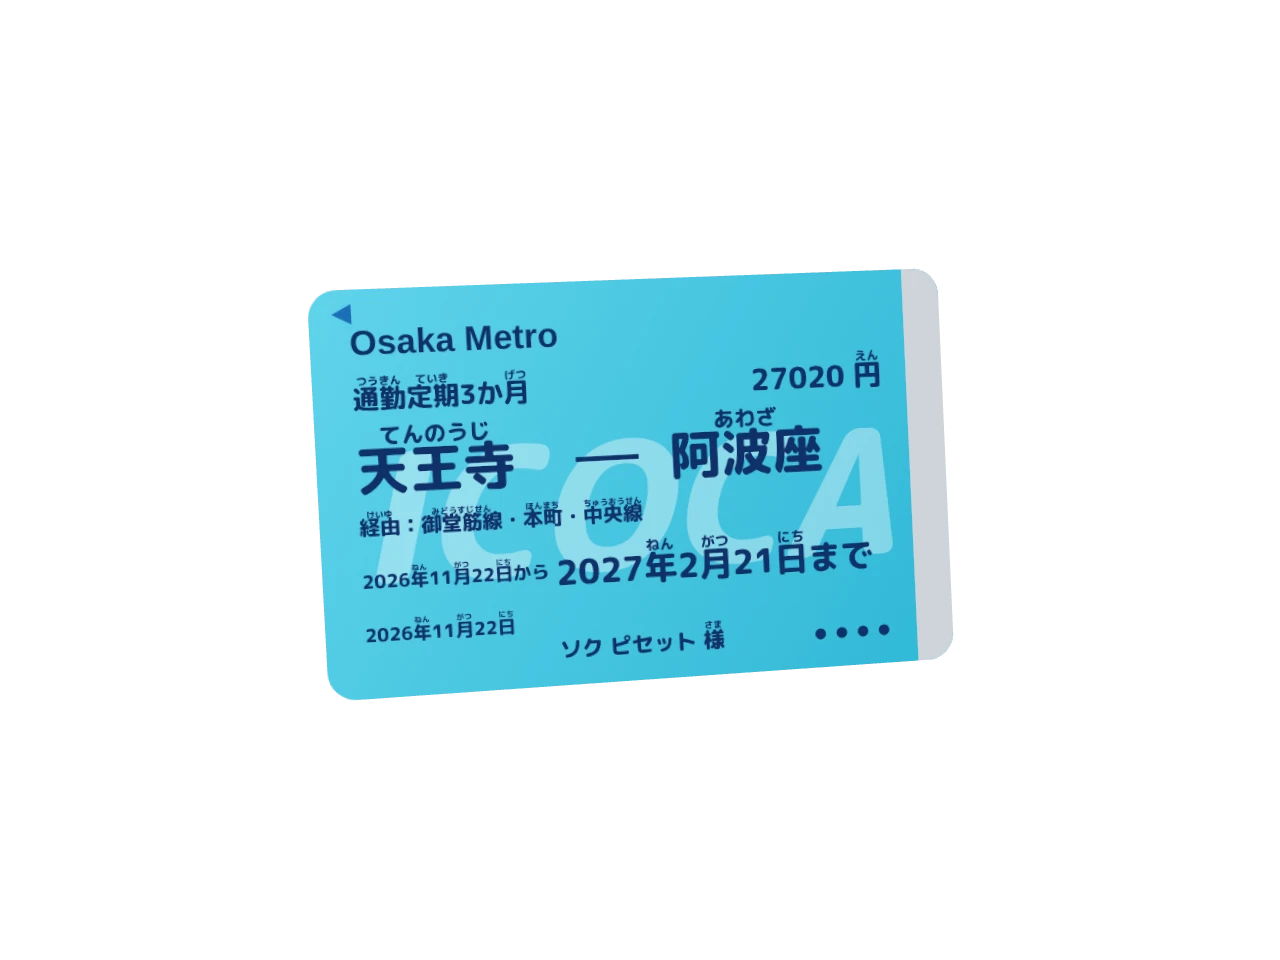
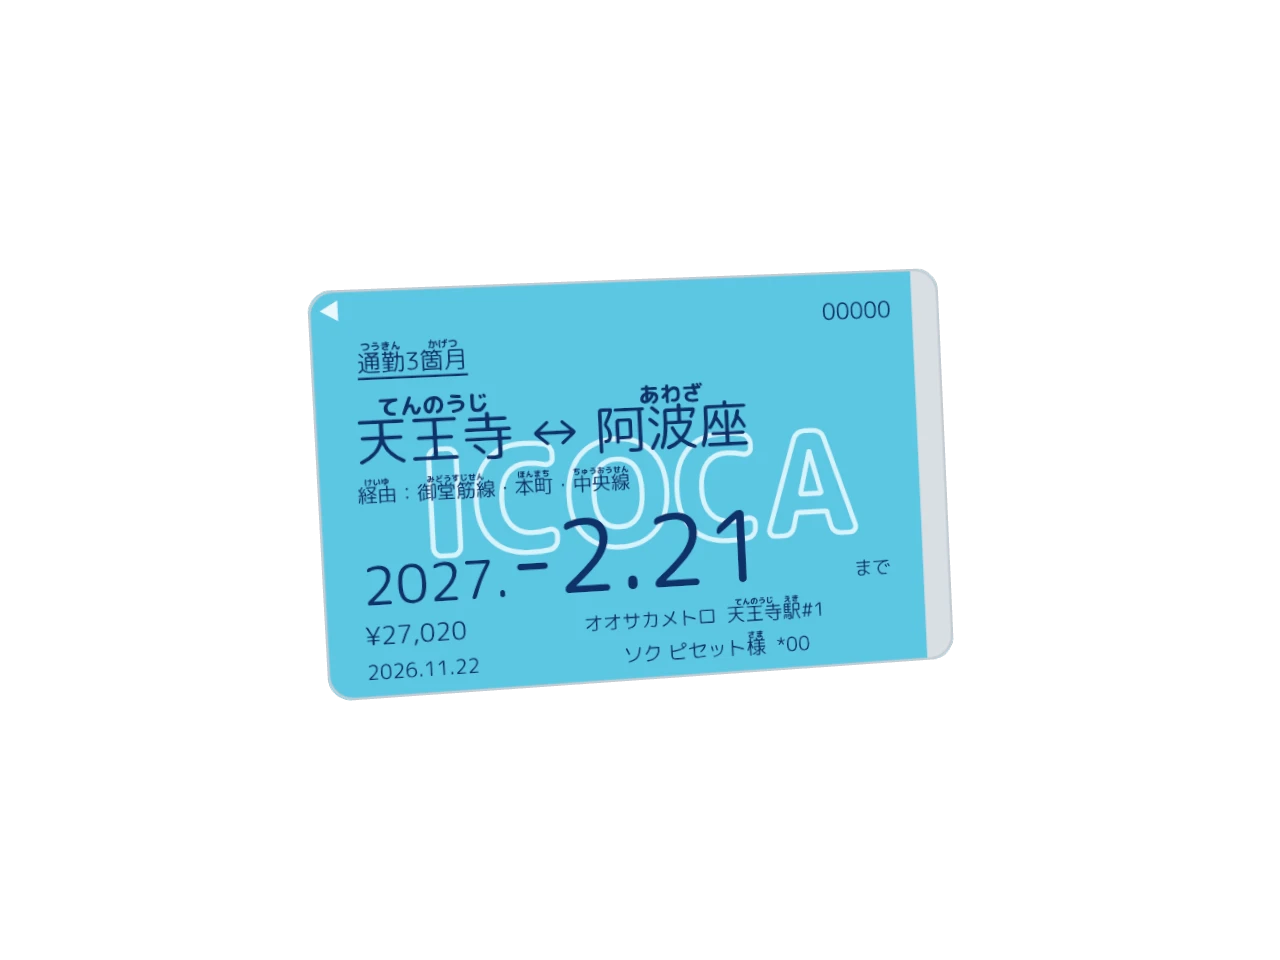
ICOCA の券面を JR 西日本の見本の並びにもっと忠実に合わせた
Claude-Session: https://claude.ai/code/session_01H98kDxS5Phs4WbDmKirucG

Changed region(s): [[0.25, 0.2812, 0.75, 0.75]]

diff --git a/src/factory/icoca-card.ts b/src/factory/icoca-card.ts
@@ -45,7 +45,8 @@ export function passPrice(months = 3): number {
 /** 券面に出る字（字体の読みこみ待ちに使う）。 */
 export function passFontText(info: PassInfo): string {
   return [
-    t("pass.kind"),
+    t("pass.cardKind", { n: 3 }),
+    t("pass.issuer"),
     t("pass.via"),
     t("pass.from"),
     t("pass.until"),
@@ -59,76 +60,92 @@ export function passFontText(info: PassInfo): string {
   ].join("");
 }
 
+/** 券面の日付（2026.11.22。1けたの月・日は「-2」のように前に「-」を付ける。本物の券面の書き方）。 */
+function dot(d: Date): string {
+  const pad = (n: number) => (n < 10 ? `-${n}` : String(n));
+  return `${d.getFullYear()}.${pad(d.getMonth() + 1)}.${pad(d.getDate())}`;
+}
+
+/**
+ * 券面。tomy さんの見本（JR 西日本の ICOCA 定期券の券面。2026-11-22）の並びに合わせる:
+ *   左上に下線つきの券の種類（通勤3箇月）・右上に番号／大きく区間（天王寺 ↔ 阿波座）／経由／
+ *   とても大きく有効期限（2027.-2.21 まで）／左下に金額と発行日／下のまん中に発行した会社・駅と名前。
+ *   地は水色、外わくだけの大きな「ICOCA」の字。キャラクターの絵は描かない。
+ */
 export function drawIcocaCard(ctx: CanvasRenderingContext2D, w: number, h: number, info: PassInfo) {
   const months = info.months ?? 3;
-  // 地（水色）と右はしの灰色の帯
+  // 地（水色）と右はしの灰色の帯・うすい灰色のふち
   ctx.save();
-  roundRect(ctx, 0, 0, w, h, h * 0.07);
+  roundRect(ctx, 0, 0, w, h, h * 0.06);
   ctx.clip();
-  const g = ctx.createLinearGradient(0, 0, w, h);
-  g.addColorStop(0, "#5fd3ea");
-  g.addColorStop(1, "#2fb8d6");
-  ctx.fillStyle = g;
+  ctx.fillStyle = "#5cc7e3";
   ctx.fillRect(0, 0, w, h);
-  ctx.fillStyle = "#cfd4d9";
-  ctx.fillRect(w * 0.94, 0, w * 0.06, h);
+  ctx.fillStyle = "#d9dee2";
+  ctx.fillRect(w * 0.955, 0, w * 0.045, h);
   // 左上の小さな三角（カードの向きのしるし）
-  ctx.fillStyle = "#1d6fb8";
+  ctx.fillStyle = "#e8f8fd";
   ctx.beginPath();
-  ctx.moveTo(w * 0.035, h * 0.06);
-  ctx.lineTo(w * 0.065, h * 0.035);
-  ctx.lineTo(w * 0.065, h * 0.085);
+  ctx.moveTo(w * 0.018, h * 0.05);
+  ctx.lineTo(w * 0.045, h * 0.025);
+  ctx.lineTo(w * 0.045, h * 0.075);
   ctx.closePath();
   ctx.fill();
-  // 大きく薄い ICOCA の字
-  ctx.fillStyle = "rgba(255,255,255,0.38)";
-  ctx.font = `italic 900 ${h * 0.44}px ${FONT_FAMILY}`;
+  // 外わくだけの大きな ICOCA の字
+  ctx.font = `800 ${h * 0.36}px ${FONT_FAMILY}`;
   ctx.textAlign = "center";
-  ctx.fillText("ICOCA", w * 0.48, h * 0.72);
+  ctx.lineWidth = h * 0.012;
+  ctx.strokeStyle = "rgba(235,250,255,0.85)";
+  ctx.strokeText("ICOCA", w * 0.5, h * 0.66);
   ctx.textAlign = "left";
   ctx.restore();
+  ctx.lineWidth = h * 0.006;
+  ctx.strokeStyle = "#c3ccd2";
+  roundRect(ctx, h * 0.003, h * 0.003, w - h * 0.006, h - h * 0.006, h * 0.06);
+  ctx.stroke();
 
-  if (!info.pass) {
-    ctx.fillStyle = NAVY;
-    ctx.font = `900 ${h * 0.1}px sans-serif`;
-    ctx.fillText("ICOCA", w * 0.07, h * 0.2);
-    return;
-  }
+  if (!info.pass) return;
 
-  const ruby = { color: NAVY, rubyColor: NAVY };
-  // 会社名・券の種類・金額
+  const ink = { color: NAVY, rubyColor: NAVY, weight: 500 };
+  // 左上: 券の種類（下線つき）・右上: 番号
+  const kind = t("pass.cardKind", { n: months });
+  const kw = drawRuby(ctx, kind, w * 0.07, h * 0.2, { size: h * 0.058, ...ink });
   ctx.fillStyle = NAVY;
-  ctx.font = `800 ${h * 0.085}px sans-serif`;
-  ctx.fillText("Osaka Metro", w * 0.06, h * 0.16);
-  drawRuby(ctx, t("pass.kind"), w * 0.06, h * 0.29, { size: h * 0.065, ...ruby });
-  drawRuby(ctx, `${passPrice(months)} ${t("tm.yen")}`, w * 0.9, h * 0.29, {
-    size: h * 0.075,
-    align: "right",
-    ...ruby,
-  });
+  ctx.fillRect(w * 0.07, h * 0.215, kw, h * 0.006);
+  ctx.font = `500 ${h * 0.058}px ${FONT_FAMILY}`;
+  ctx.textAlign = "right";
+  ctx.fillText("00000", w * 0.92, h * 0.12);
+  ctx.textAlign = "left";
   // 区間（大きく）
   const from = STATION.tennoji?.name ?? "";
   const to = STATION.awaza?.name ?? "";
-  drawRuby(ctx, from, w * 0.06, h * 0.49, { size: h * 0.13, ...ruby });
-  ctx.fillStyle = NAVY;
-  ctx.fillRect(w * 0.4, h * 0.435, w * 0.1, h * 0.012);
-  drawRuby(ctx, to, w * 0.55, h * 0.49, { size: h * 0.13, ...ruby });
+  drawRuby(ctx, `${from} \u2194 ${to}`, w * 0.06, h * 0.42, { size: h * 0.13, ...ink });
   // 経由
-  drawRuby(ctx, t("pass.via"), w * 0.06, h * 0.6, { size: h * 0.05, ...ruby });
-  // 通用期間: 「〜から」と大きく「〜まで」
+  drawRuby(ctx, t("pass.via"), w * 0.06, h * 0.52, { size: h * 0.048, ...ink });
+  // 有効期限（とても大きく）と「まで」
   const { from: d0, until: d1 } = passPeriod(info.start, months);
-  drawRuby(ctx, `${ymd(d0)}${t("pass.from")}`, w * 0.06, h * 0.73, { size: h * 0.045, ...ruby });
-  drawRuby(ctx, `${ymd(d1)}${t("pass.until")}`, w * 0.36, h * 0.75, { size: h * 0.085, ...ruby });
-  // 発行日・名前・しるし
-  drawRuby(ctx, ymd(d0), w * 0.06, h * 0.86, { size: h * 0.045, ...ruby });
-  drawRuby(ctx, `${info.name || "-"} ${t("pass.sama")}`, w * 0.36, h * 0.93, {
-    size: h * 0.055,
-    ...ruby,
-  });
+  const [yy, ...md] = dot(d1).split(".");
   ctx.fillStyle = NAVY;
-  for (let i = 0; i < 4; i += 1) {
-    ctx.beginPath();
-    ctx.arc(w * (0.78 + i * 0.035), h * 0.915, h * 0.014, 0, Math.PI * 2);
-    ctx.fill();
-  }
+  ctx.font = `400 ${h * 0.13}px ${FONT_FAMILY}`;
+  ctx.fillText(`${yy}.`, w * 0.06, h * 0.77);
+  const yw = ctx.measureText(`${yy}.`).width;
+  ctx.font = `400 ${h * 0.25}px ${FONT_FAMILY}`;
+  ctx.fillText(md.join("."), w * 0.06 + yw, h * 0.77);
+  drawRuby(ctx, t("pass.until"), w * 0.84, h * 0.77, { size: h * 0.048, ...ink });
+  // 左下: 金額・発行日
+  ctx.font = `500 ${h * 0.062}px ${FONT_FAMILY}`;
+  ctx.fillText(`\u00a5${passPrice(months).toLocaleString()}`, w * 0.06, h * 0.87);
+  ctx.font = `500 ${h * 0.05}px ${FONT_FAMILY}`;
+  ctx.fillText(dot(d0), w * 0.06, h * 0.955);
+  // 下のまん中: 発行した会社・駅と、名前
+  drawRuby(
+    ctx,
+    `${t("pass.issuer")}  ${STATION.tennoji?.name ?? ""}${t("sign.station")}#1`,
+    w * 0.4,
+    h * 0.87,
+    { size: h * 0.048, ...ink },
+  );
+  drawRuby(ctx, `${info.name || "-"}${t("pass.sama")}  *00`, w * 0.46, h * 0.955, {
+    size: h * 0.05,
+    ...ink,
+  });
 }
